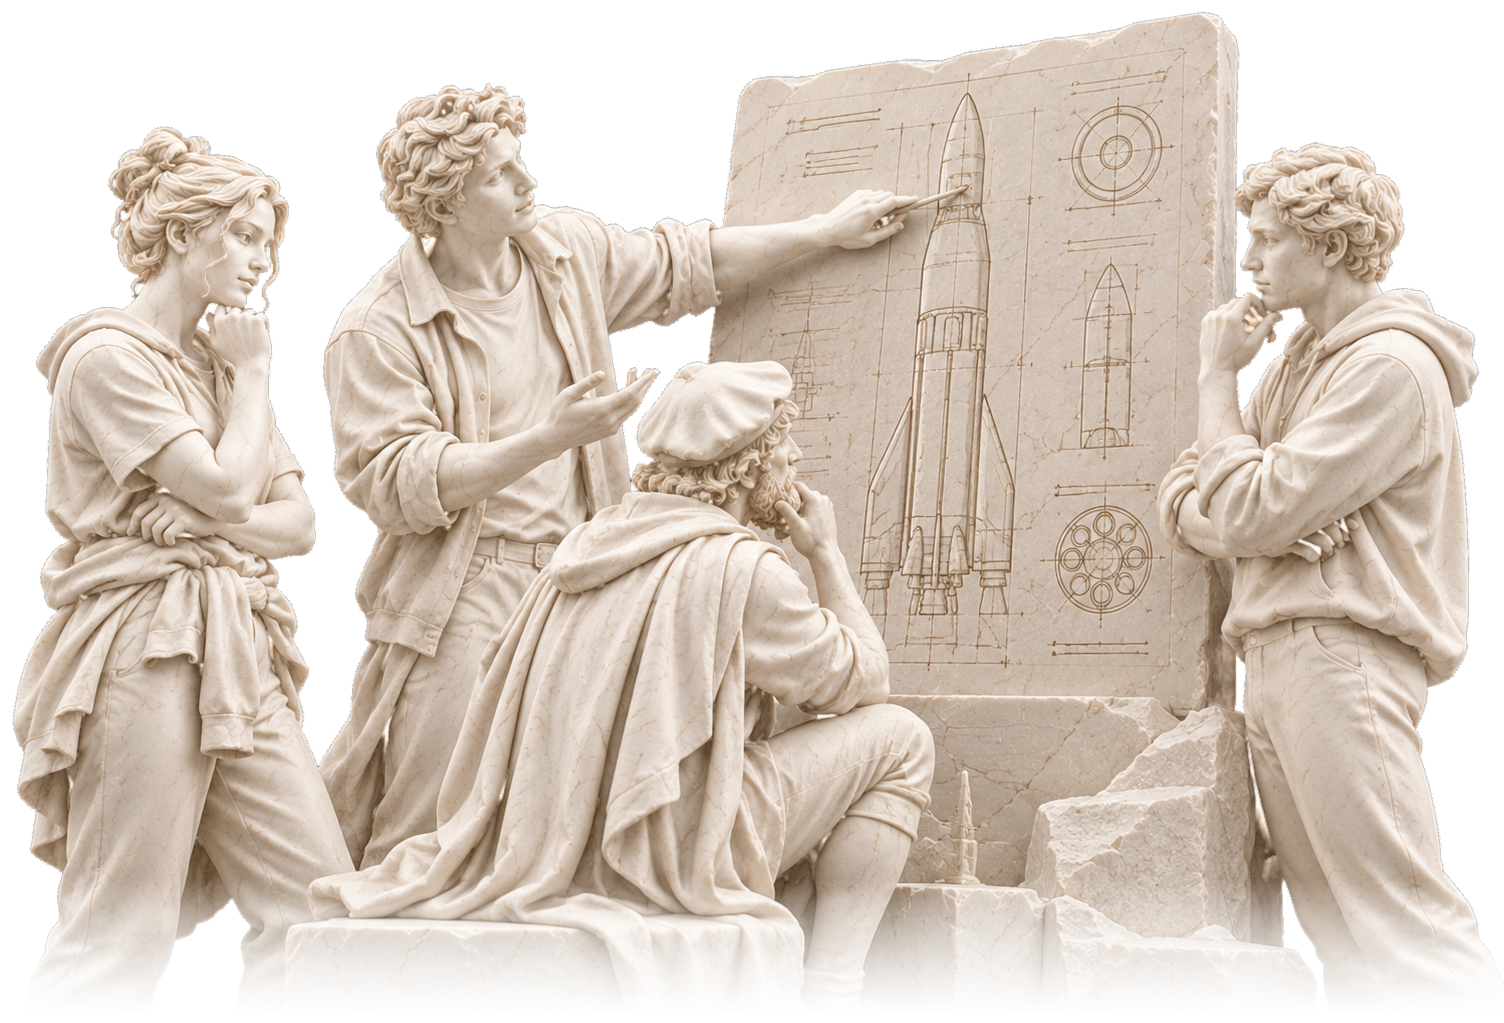
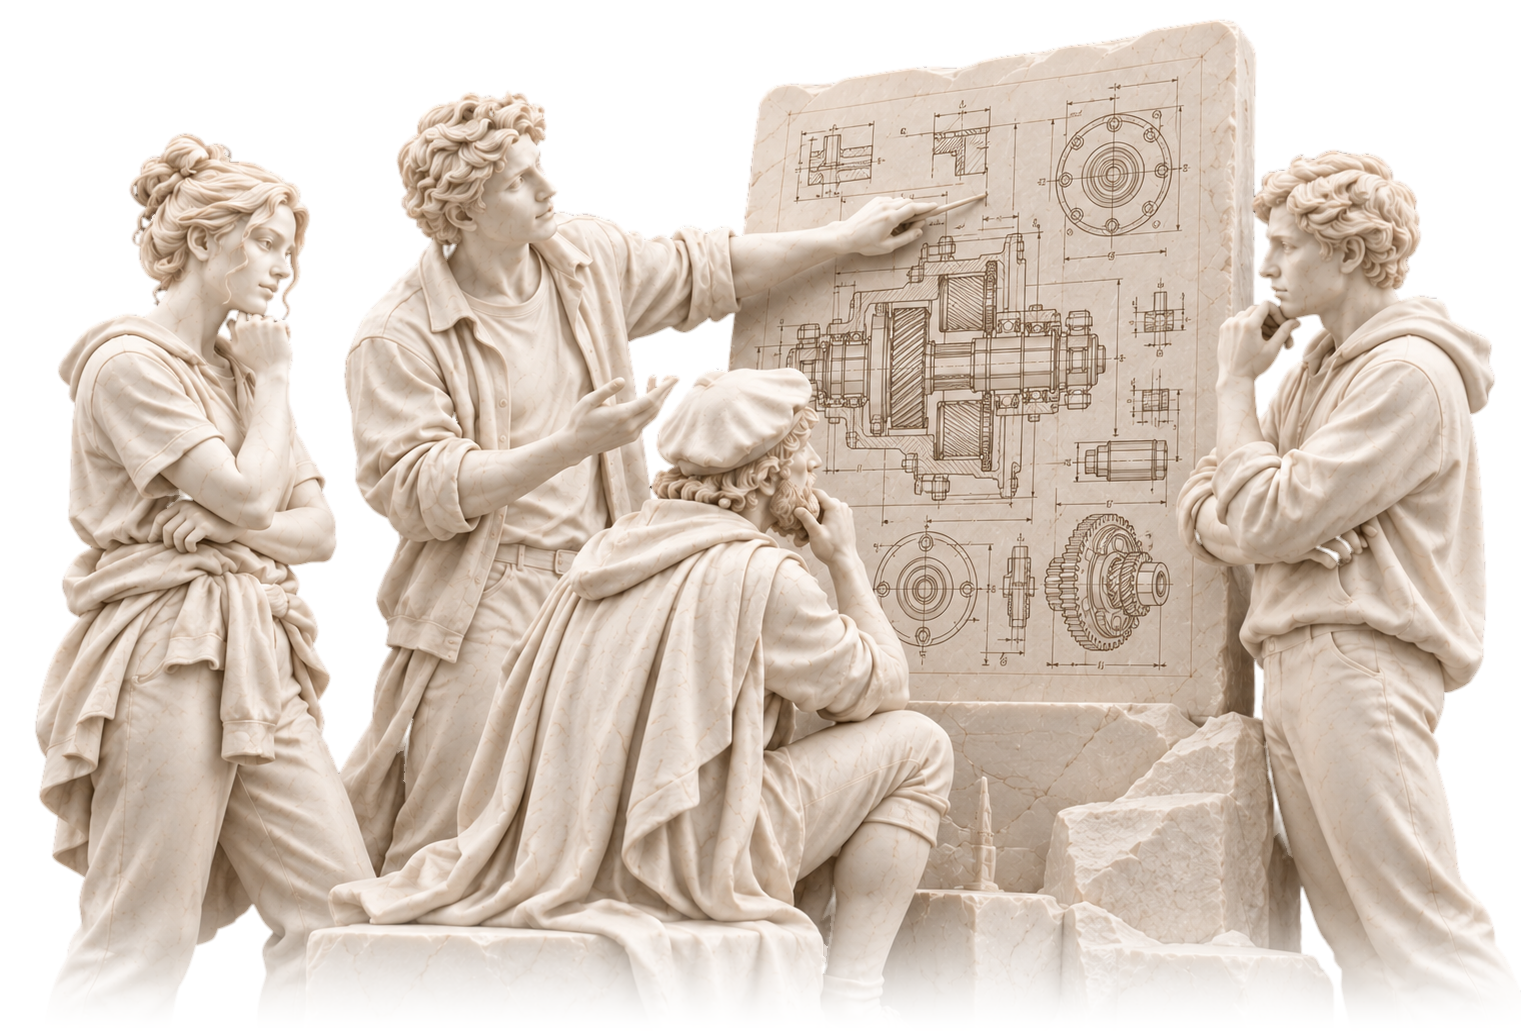
feat(hero): swap rocket image for gear blueprint
Replace the hero object with the new statue scene (gear blueprint
instead of rocket), cut out from its black backdrop without a dark
rim, and update the alt text and intrinsic size.

diff --git a/src/data/staticContent.ts b/src/data/staticContent.ts
@@ -149,7 +149,7 @@ export const homepage = {
     src: 'kickoff.jpg',
     alt: 'Gruppenfoto vom Kick-off-Event von IGNITE im Utopia: rund 35 Studierende vor der Projektion des IGNITE-Logos.',
   },
-  heroObjectAlt: 'Vier junge Gründer:innen als Marmorskulpturen diskutieren vor einer Steintafel mit eingravierten Raketen-Bauplänen',
+  heroObjectAlt: 'Vier junge Gründer:innen als Marmorskulpturen diskutieren vor einer Steintafel mit eingravierten Maschinen-Bauplänen',
   heroCTA_Text: 'Mitmachen',
   heroCTA_URL: '/mitmachen',
   heroCTA_Icon: 'ion:people-outline',

diff --git a/src/data/staticContent.en.ts b/src/data/staticContent.en.ts
@@ -148,7 +148,7 @@ export const homepage = {
     src: 'kickoff.jpg',
     alt: 'Group photo from the IGNITE kick-off event at Utopia: around 35 students in front of the projected IGNITE logo.',
   },
-  heroObjectAlt: 'Four young founders as marble sculptures discuss in front of a stone tablet engraved with rocket blueprints',
+  heroObjectAlt: 'Four young founders as marble sculptures discuss in front of a stone tablet engraved with machine blueprints',
   heroCTA_Text: 'Join us',
   heroCTA_URL: '/en/join',
   heroCTA_Icon: 'ion:people-outline',
